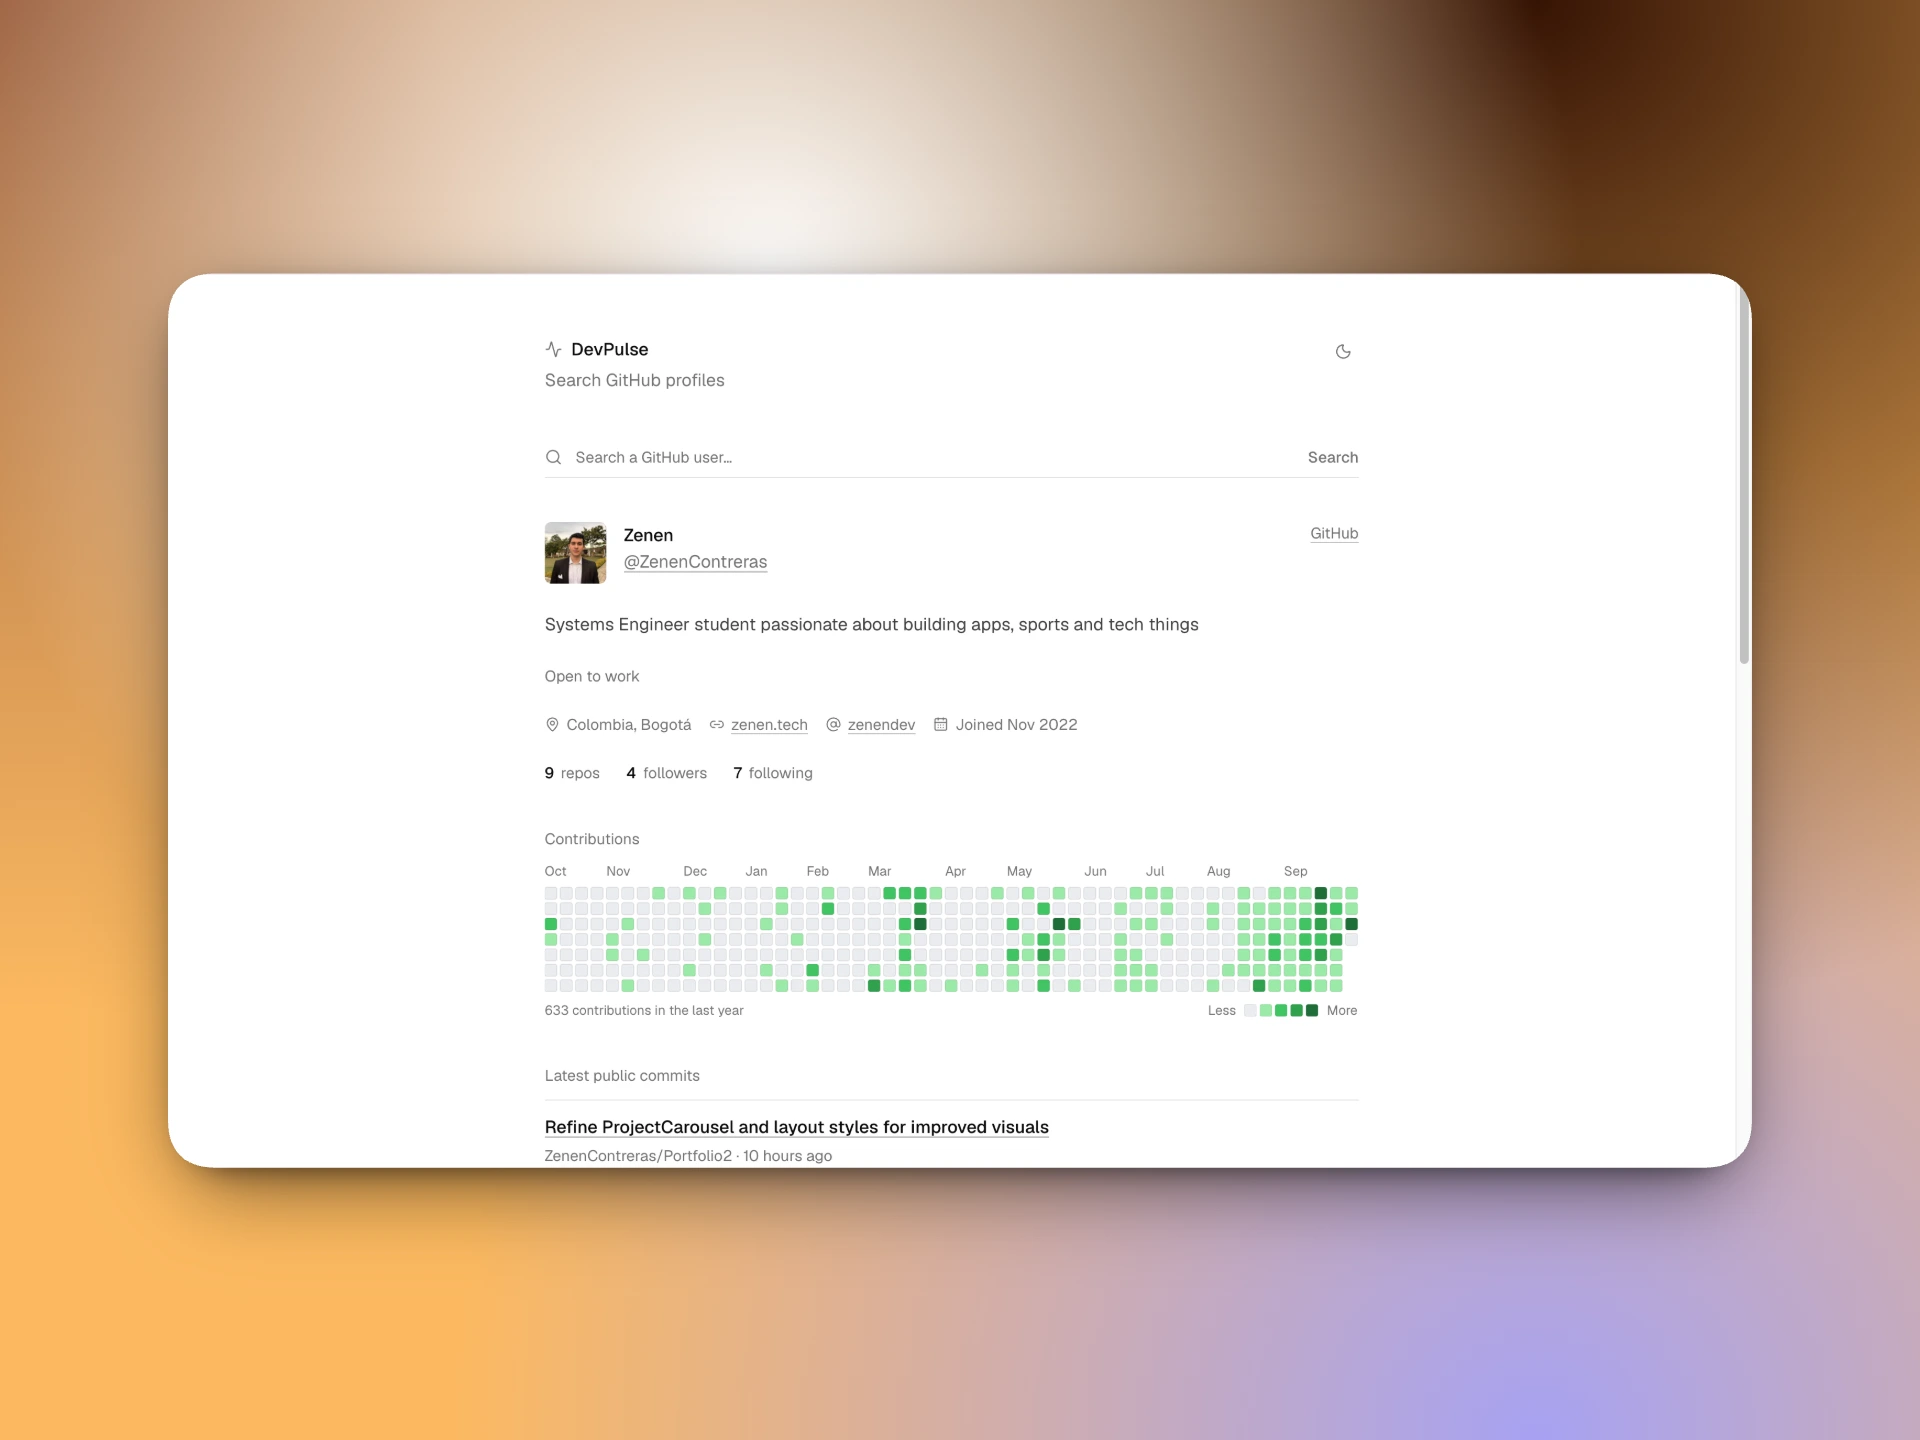
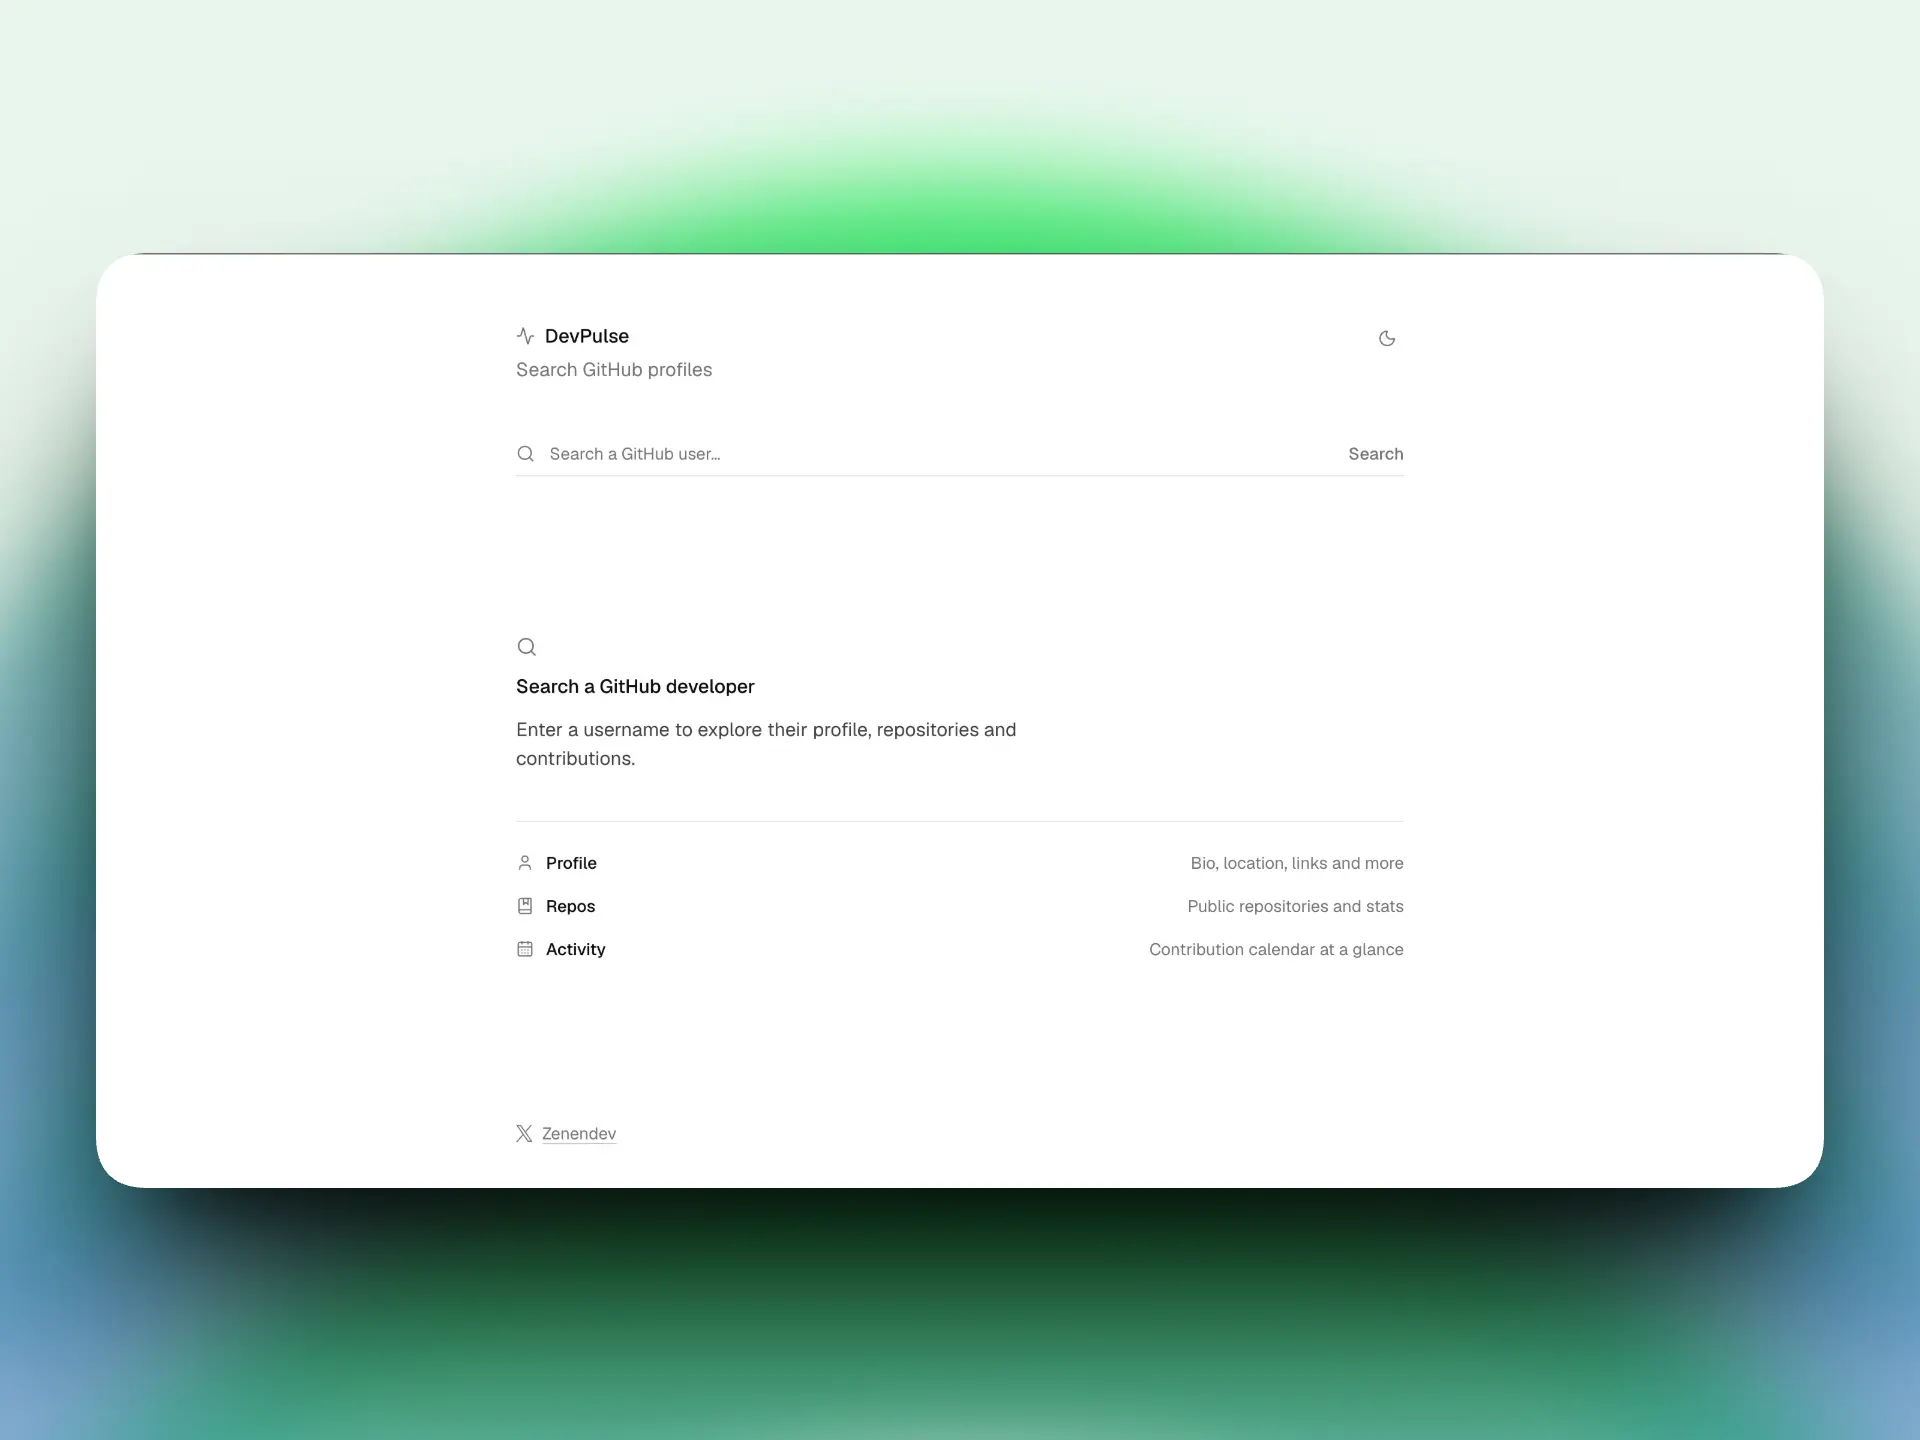
feat: Update project images and add debug logging in FlexCarousel component

diff --git a/src/components/FlexCarousel.tsx b/src/components/FlexCarousel.tsx
@@ -560,6 +560,7 @@ const FlexCarousel = ({
     let visible = true;
     let alive = true;
     let dirty = true;
+    let debugFitLogged = false;
     let activeIndex = -1;
     let interactedAt = -Infinity;
     let autoplayAt = performance.now();
@@ -618,6 +619,9 @@ const FlexCarousel = ({
         texture.update();
         slot.image = [image.naturalWidth || 1, image.naturalHeight || 1];
         slot.aspect = slot.image[0] / slot.image[1];
+        // #region agent log
+        fetch('http://127.0.0.1:7406/ingest/d446c214-2e6d-40c9-a767-8f599d632f8d',{method:'POST',headers:{'Content-Type':'application/json','X-Debug-Session-Id':'bd679e'},body:JSON.stringify({sessionId:'bd679e',hypothesisId:'B',location:'FlexCarousel.tsx:onload',message:'project image decoded',data:{src:item.src,width:slot.image[0],height:slot.image[1],aspect:slot.aspect,target:4/3},timestamp:Date.now()})}).catch(()=>{});
+        // #endregion
         try {
           const probe = document.createElement('canvas');
           probe.width = 8;
@@ -1046,6 +1050,21 @@ const FlexCarousel = ({
           }
         }
         draws.sort((a, b) => Math.abs(b.rel) - Math.abs(a.rel));
+        // #region agent log
+        if (!debugFitLogged && draws.length && slots.some(slot => slot.loaded)) {
+          debugFitLogged = true;
+          const center = draws.reduce((best, draw) => (Math.abs(draw.rel) < Math.abs(best.rel) ? draw : best));
+          const slot = slots[center.i];
+          const imageAspect = slot.image[0] / Math.max(slot.image[1], 1);
+          const cardAspect = center.cw / Math.max(center.ch, 1);
+          const uvScale = imageAspect > cardAspect ? [cardAspect / imageAspect, 1] : [1, imageAspect / cardAspect];
+          uvScale[0] /= 1.08;
+          uvScale[1] /= 1.08;
+          const halfW = (s.lensWidth * width) / 2;
+          const halfH = (s.lensHeight * width) / 2;
+          fetch('http://127.0.0.1:7406/ingest/d446c214-2e6d-40c9-a767-8f599d632f8d',{method:'POST',headers:{'Content-Type':'application/json','X-Debug-Session-Id':'bd679e'},body:JSON.stringify({sessionId:'bd679e',hypothesisId:'A',location:'FlexCarousel.tsx:draw',message:'center card fit',data:{stage:[width,height],fit:s.fit,image:slot.image,imageAspect,card:[center.cw,center.ch],cardAspect,uvScale,visibleFraction:uvScale,y0:center.y-center.ch/2,y1:center.y+center.ch/2,clippedTop:(center.y-center.ch/2)<0,clippedBottom:(center.y+center.ch/2)>height,lensHalf:[halfW,halfH],bend:s.bend,curl:s.curl,shiftAtCenter:Math.max(-1,Math.min(1,center.rel/(width*0.75)))},timestamp:Date.now()})}).catch(()=>{});
+        }
+        // #endregion
         let first = true;
         for (const draw of draws) {
           const slot = slots[draw.i];
